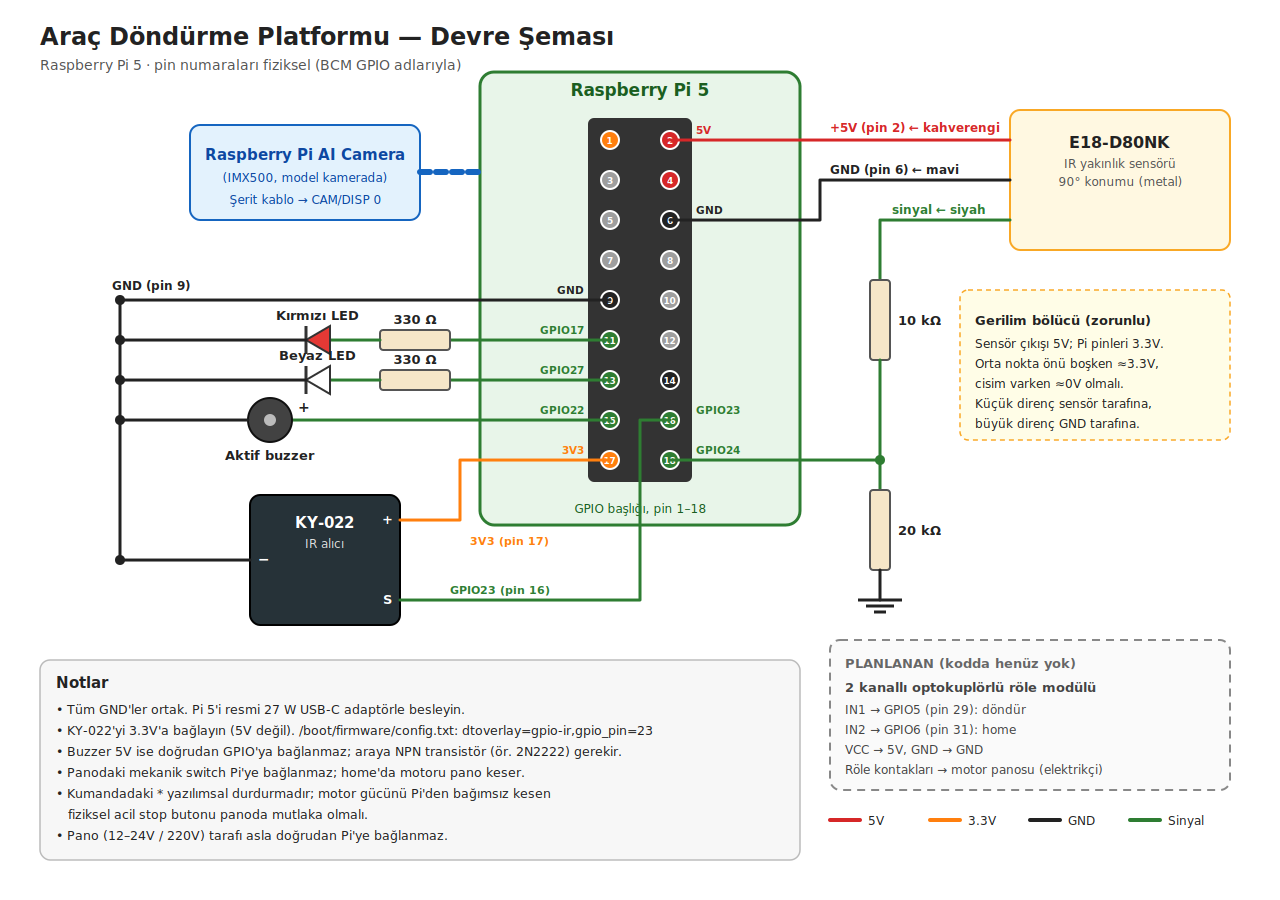
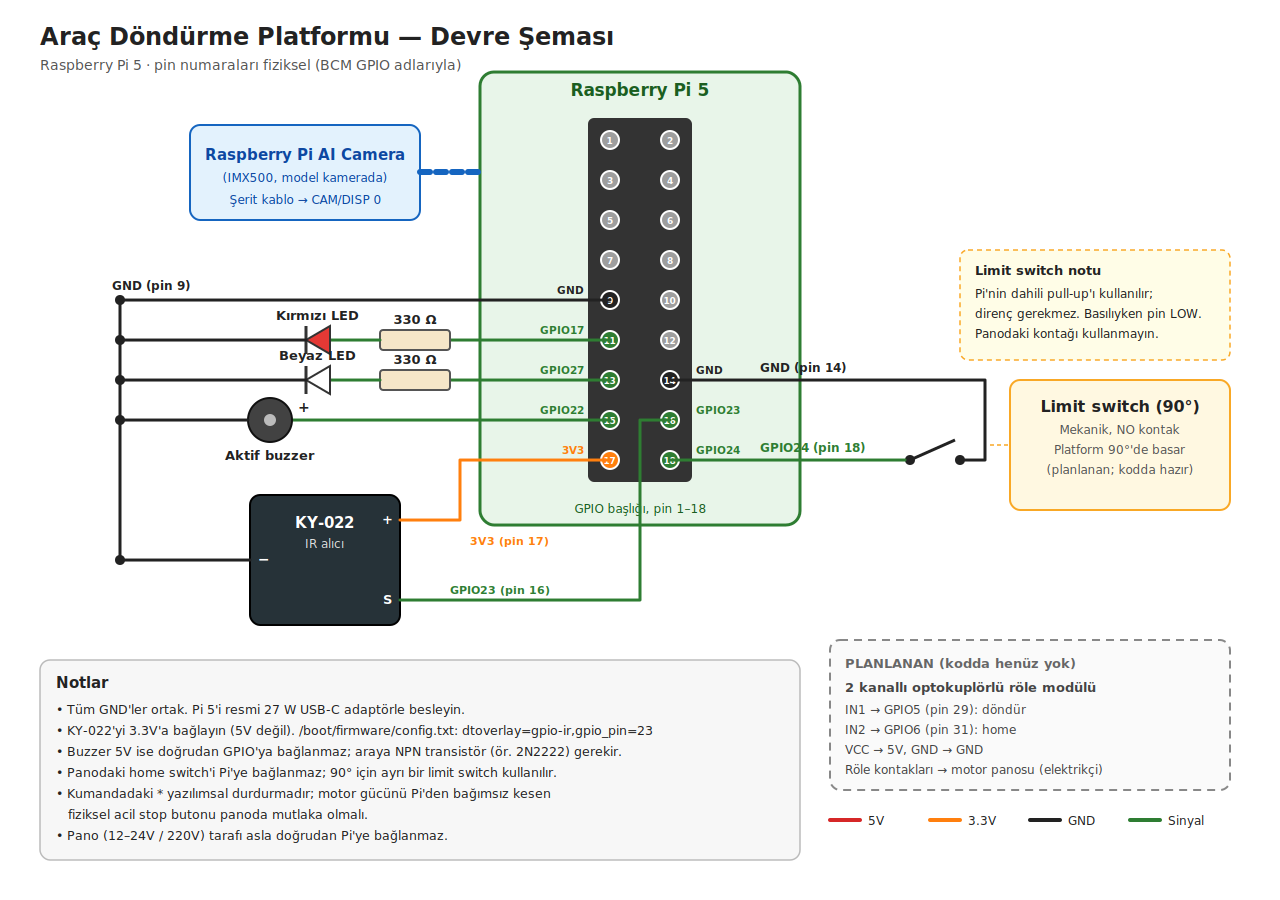
Mesafe sensörü kaldırıldı, 90° için limit switch desteği

diff --git a/main.py b/main.py
@@ -34,7 +34,7 @@ from hardware.indicators import ConsoleStatusIndicator, GpioStatusIndicator
 from hardware.json_zone_repository import JsonZoneRepository
 from hardware.keyboard_listener import KeyBindings, KeyboardListener
 from hardware.photo_recorder import FilePhotoRecorder
-from hardware.proximity_sensor import ProximityPositionSensor
+from hardware.limit_switch import LimitSwitch
 from hardware.event_button import EventButton
 from hardware.ir_remote_listener import IrRemoteListener
 from hardware.simulated_motor import SimulatedMotor
@@ -144,14 +144,14 @@ def build_indicator(config: AppConfig):
 
 def build_motor(config: AppConfig, resources: ExitStack):
     motor_config = config.motor
-    if not motor_config.use_position_sensor:
+    if not motor_config.use_limit_switch:
         logger.info("Motor tam simülasyonda (90° süreyle kabul ediliyor).")
         return SimulatedMotor(motor_config.rotation_seconds)
 
-    sensor = ProximityPositionSensor(motor_config.position_sensor_pin)
-    resources.callback(sensor.close)
-    logger.info("90° konumu E18-D80NK sensöründen okunuyor (GPIO%d).", motor_config.position_sensor_pin)
-    return PlatformMotor(ConsoleMotorDriver(), sensor, motor_config.home_seconds)
+    limit_switch = LimitSwitch(motor_config.limit_switch_pin)
+    resources.callback(limit_switch.close)
+    logger.info("90° konumu limit switch'ten okunuyor (GPIO%d).", motor_config.limit_switch_pin)
+    return PlatformMotor(ConsoleMotorDriver(), limit_switch, motor_config.home_seconds)
 
 
 def build_displays(config: AppConfig, zone_store: ZoneStore):

diff --git a/config.py b/config.py
@@ -45,14 +45,14 @@ class GpioConfig:
 
 @dataclass(frozen=True)
 class MotorConfig:
-    # True : 90° konumu E18-D80NK sensöründen okunur (motor komutları yine ekrana yazılır).
-    # False: sensör yokken tam simülasyon, 90°'ye `rotation_seconds` sonra varılır.
-    use_position_sensor: bool = False
-    position_sensor_pin: int = 24    # E18-D80NK sinyal ucu (fiziksel pin 18)
+    # True : 90° konumu mekanik limit switch'ten okunur (motor komutları yine ekrana yazılır).
+    # False: switch yokken tam simülasyon, 90°'ye `rotation_seconds` sonra varılır.
+    use_limit_switch: bool = False
+    limit_switch_pin: int = 24       # Switch'in bir ucu GPIO24 (fiziksel pin 18), diğer ucu GND
     rotation_seconds: float = 6.0    # Simülasyonda home ↔ 90° hareketinin süresi
     home_seconds: float = 8.0        # Home komutundan sonra bu süre dolunca home'a varılmış sayılır
     auto_home_seconds: float = 10.0  # Platform dönmüşken bu kadar süre araç görünmezse home'a dön
-    # Bir hareket bu süre içinde hedefe varmazsa (sensör arızası, sıkışma) acil durdurulur
+    # Bir hareket bu süre içinde hedefe varmazsa (switch arızası, sıkışma) acil durdurulur
     motion_timeout_seconds: float = 20.0
 
 

diff --git a/hardware/limit_switch.py b/hardware/limit_switch.py
@@ -1,0 +1,23 @@
+"""90° konumundaki mekanik limit switch'i okur.
+
+Bağlantı: switch'in NO (normalde açık) kontağının bir ucu GPIO pinine, diğer
+ucu GND'ye. Pi'nin dahili pull-up direnci açılır; platform 90°'ye gelip
+switch'e bastığında pin LOW olur ve `is_triggered()` True döner.
+
+Switch Pi'nin 3.3V'u ile çalışır; ayrı bir besleme ya da gerilim bölücü
+gerekmez. Panodaki (yüksek voltajlı) devreye bağlı bir kontak KULLANILMAZ.
+"""
+from __future__ import annotations
+
+
+class LimitSwitch:
+    def __init__(self, pin: int) -> None:
+        from gpiozero import DigitalInputDevice  # Pi dışında import hatası vermesin
+
+        self._device = DigitalInputDevice(pin, pull_up=True)
+
+    def is_triggered(self) -> bool:
+        return self._device.is_active
+
+    def close(self) -> None:
+        self._device.close()

diff --git a/hardware/simulated_motor.py b/hardware/simulated_motor.py
@@ -1,8 +1,8 @@
 """Gerçek motor gelene kadar platformun hareketini simüle eder.
 
 Gerçek sistemde:
-  - 90° dönüş (saat yönünün tersine): lazer sensör platform ucundaki
-    metali görünce hedefe varılmış sayılır.
+  - 90° dönüş (saat yönünün tersine): platform mekanik limit switch'e
+    basınca hedefe varılmış sayılır.
   - Home dönüşü (saat yönünde): motoru panodaki mekanik switch keser;
     Pi switch'i okumaz, belirli süre dolunca home'a varılmış kabul eder.
 

diff --git a/application/platform_motor.py b/application/platform_motor.py
@@ -1,6 +1,6 @@
 """Gerçek platform motorunun konum mantığı.
 
-- 90° konumu : yakınlık sensörü (E18-D80NK) platform ucundaki metali görür.
+- 90° konumu : platform 90°'ye gelince mekanik limit switch'e basar.
 - Home       : motoru panodaki mekanik switch keser; Pi switch'i okumaz,
                home komutundan `home_seconds` sonra home'a varılmış kabul eder.
 - Ara konum  : bilinmez ve gerekmez. Yön her zaman belli (dışarı = saat yönünün

diff --git a/application/platform_controller.py b/application/platform_controller.py
@@ -216,7 +216,7 @@ class PlatformController:
         elif self._motion_timed_out():
             self._enter_emergency(
                 f"Hedefe {self._motion_timeout_seconds:.0f} sn içinde varılamadı "
-                "(sensör arızası ya da sıkışma olabilir)"
+                "(limit switch arızası ya da sıkışma olabilir)"
             )
 
     def _on_target_reached(self) -> None:

diff --git a/application/ports.py b/application/ports.py
@@ -71,7 +71,7 @@ class MotorDriver(Protocol):
 
 
 class RotatedPositionSensor(Protocol):
-    """Platform 90° konumundayken (metal sensörün önündeyken) True döner."""
+    """Platform 90° konumundayken (limit switch basılıyken) True döner."""
 
     def is_triggered(self) -> bool: ...
 
